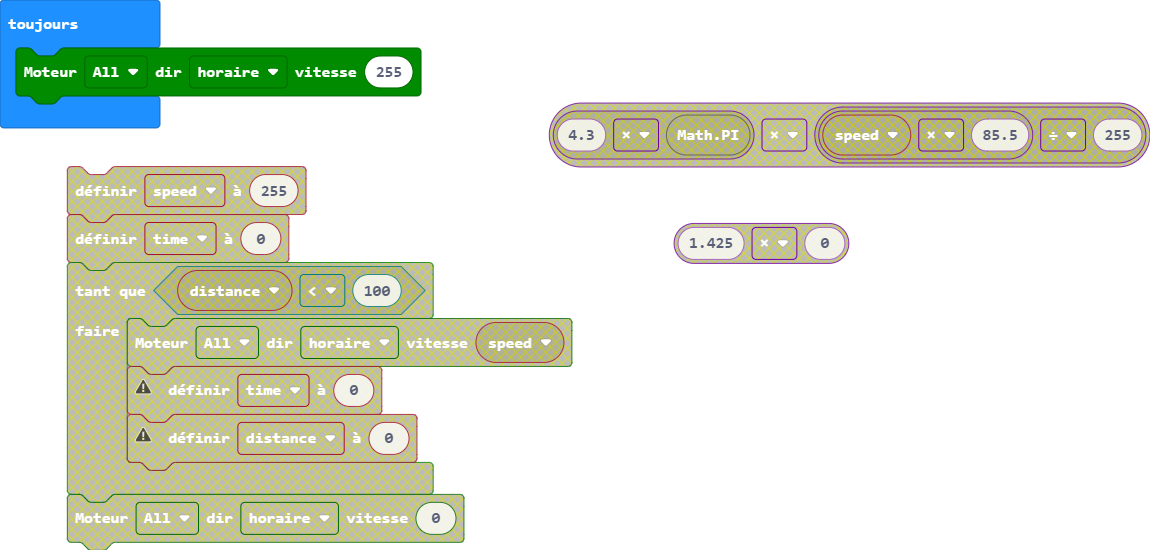
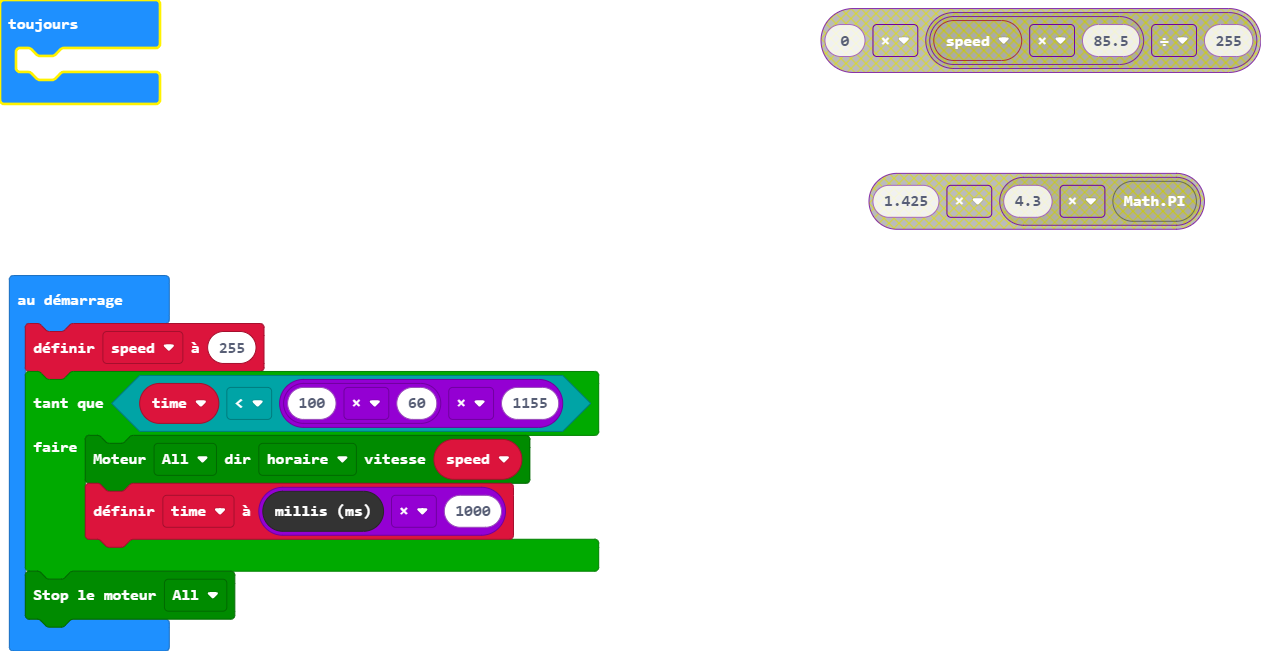
Changement de la méthode de calcul de la distance, passée maintenant à une base en cm au lieu des tr/min

diff --git a/main.ts b/main.ts
@@ -1,3 +1,10 @@
+let time = 0
+let speed = 255
+while (time < 100 * 60 * 1155) {
+    maqueen.motorRun(maqueen.Motors.All, maqueen.Dir.CW, speed)
+    time = control.millis() * 1000
+}
+maqueen.motorStop(maqueen.Motors.All)
 basic.forever(function () {
-    maqueen.motorRun(maqueen.Motors.All, maqueen.Dir.CW, 255)
+	
 })

diff --git a/main.py b/main.py
@@ -1,9 +1,11 @@
-def on_press_power():
-    pass
-maqueenIR.on_press_event(RemoteButton.POWER, on_press_power)
+speed = 0
+time = 0
 
-speed = 255
-time = 4.3 * Math.PI
-while True:
-    maqueen.motor_run(maqueen.Motors.ALL, maqueen.Dir.CW, speed)
-    time = 0
+def on_forever():
+    global speed, time
+    speed = 255
+    while time < 100 * 60 * 1155:
+        maqueen.motor_run(maqueen.Motors.ALL, maqueen.Dir.CW, speed)
+        time = control.millis() * 1000
+    maqueen.motor_stop(maqueen.Motors.ALL)
+basic.forever(on_forever)
